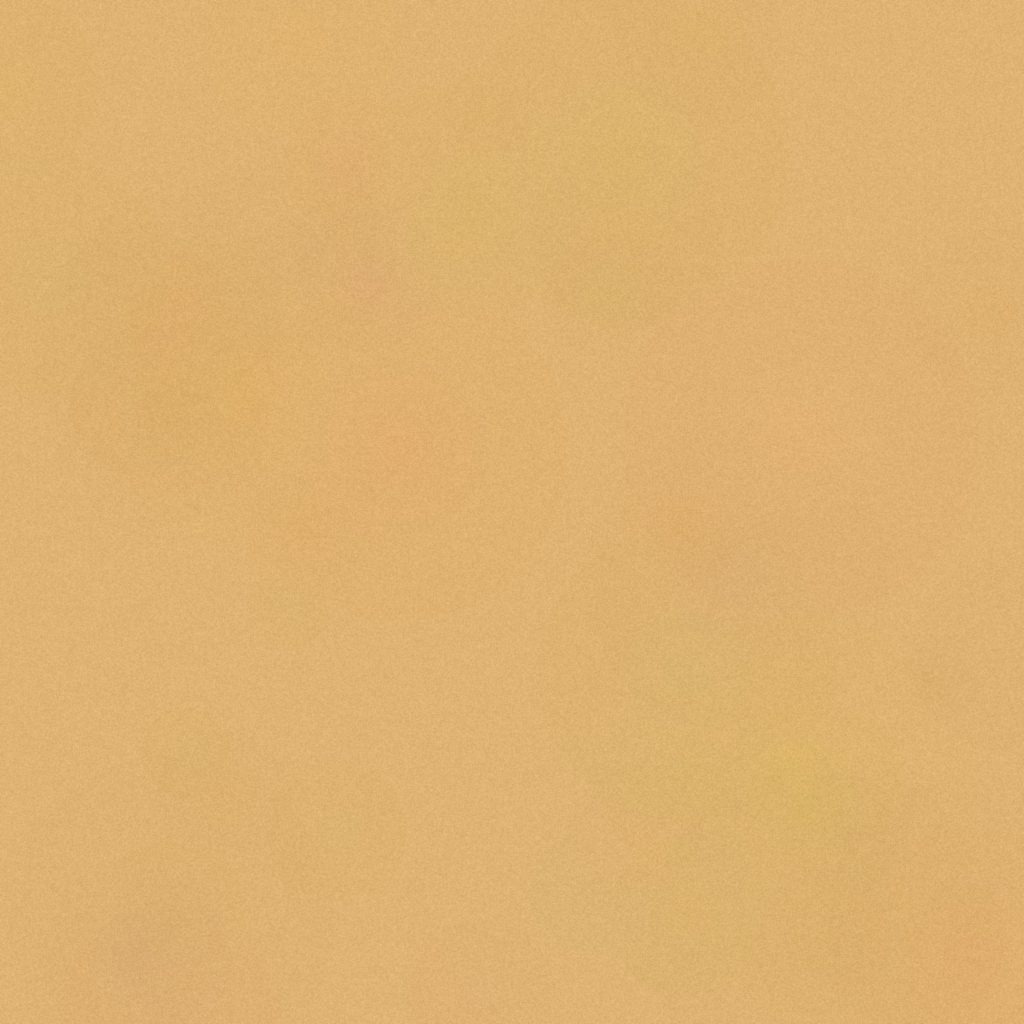
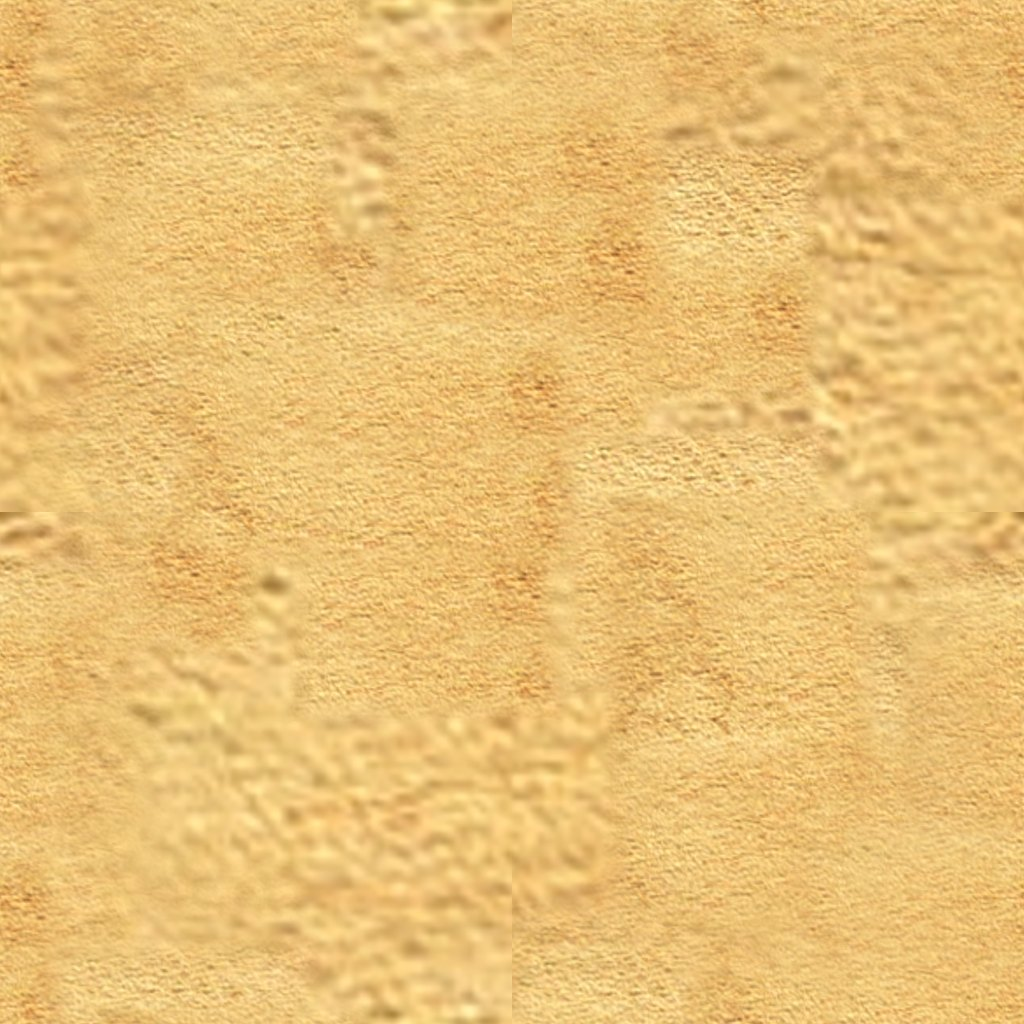
Restyle the app on the original parchment.
The page uses the OP20 sheet's fiber and a darker edge, with sharper ink and tighter cards. The app icon is unchanged.

Changed region(s): [[0.0, 0.0, 1.0, 1.0], [0.9062, 0.0625, 0.9375, 0.125]]

diff --git a/src/styles.css b/src/styles.css
@@ -6,41 +6,41 @@
   --font-sans: "Source Serif 4", "Iowan Old Style", "Palatino Linotype", serif;
   --font-mono: "IBM Plex Mono", ui-monospace, monospace;
 
-  --color-parchment: #f3e4c4;
-  --color-parchment-2: #e6cf9e;
-  --color-rule: #c9a56a;
-  --color-ink: #2a1c14;
-  --color-ink-soft: #4a3524;
-  --color-muted: #7a6248;
+  --color-parchment: #f4e2c0;
+  --color-parchment-2: #e4c48a;
+  --color-rule: #a9783d;
+  --color-ink: #1a120c;
+  --color-ink-soft: #3c2b1c;
+  --color-muted: #6b5338;
   --color-burgundy: #7c2d22;
   --color-burgundy-deep: #5c1f18;
-  --color-leather: #2b2218;
-  --color-leather-2: #1a140e;
-  --color-cream: #f7ecd4;
-  --color-panel: #f4e6cc;
+  --color-leather: #241910;
+  --color-leather-2: #140e0a;
+  --color-cream: #f8edd4;
+  --color-panel: #f6e7c8;
   --color-danger: #9b2c2c;
   --color-ok: #2f6b4f;
   --color-warn: #8a5a18;
 
-  --color-background: #f3e4c4;
-  --color-foreground: #2a1c14;
-  --color-card: #f4e6cc;
-  --color-border: #c9a56a;
+  --color-background: #e6c07a;
+  --color-foreground: #1a120c;
+  --color-card: #f6e7c8;
+  --color-border: #a9783d;
   --color-primary: #7c2d22;
-  --color-primary-foreground: #f3e4c4;
+  --color-primary-foreground: #f8edd4;
   --color-ring: #7c2d22;
   --color-destructive: #9b2c2c;
 
   --radius-xs: 4px;
-  --radius-sm: 8px;
-  --radius-md: 12px;
-  --radius-lg: 20px;
-  --radius-xl: 28px;
+  --radius-sm: 6px;
+  --radius-md: 10px;
+  --radius-lg: 14px;
+  --radius-xl: 18px;
 
   --shadow-border:
-    0px 0px 0px 1px rgba(42, 28, 20, 0.08),
-    0px 1px 2px -1px rgba(42, 28, 20, 0.08),
-    0px 8px 24px -12px rgba(42, 28, 20, 0.18);
+    0 0 0 1px rgba(26, 18, 12, 0.16),
+    inset 0 1px 0 rgba(255, 248, 230, 0.75),
+    0 14px 28px -18px rgba(70, 36, 10, 0.55);
 
   --ease-out: cubic-bezier(0.22, 1, 0.36, 1);
 }
@@ -52,18 +52,14 @@
   }
 
   body {
-    background-color: var(--color-parchment);
+    background-color: #c9964c;
     background-image:
-      linear-gradient(
-        180deg,
-        color-mix(in srgb, var(--color-parchment) 58%, transparent),
-        color-mix(in srgb, var(--color-parchment) 86%, transparent) 48%,
-        var(--color-parchment)
-      ),
+      radial-gradient(ellipse 100% 60% at 50% 0%, rgba(255, 244, 214, 0.35), transparent 46%),
+      radial-gradient(ellipse 140% 110% at 50% 42%, transparent 42%, rgba(78, 40, 12, 0.38) 100%),
       url("/brand/parchment-wash.jpg");
-    background-size: auto, 1400px;
-    background-repeat: no-repeat, repeat;
-    background-position: 0 0, 50% 0;
+    background-size: auto, auto, 640px;
+    background-repeat: no-repeat, no-repeat, repeat;
+    background-position: center top, center, center;
     color: var(--color-ink);
     font-family: var(--font-sans);
     min-height: 100dvh;
@@ -72,7 +68,7 @@
   h1, h2, h3 {
     font-family: var(--font-display);
     text-wrap: balance;
-    letter-spacing: -0.02em;
+    letter-spacing: -0.015em;
   }
 
   p {
@@ -106,15 +102,17 @@
 
 .ornament-frame {
   box-shadow: var(--shadow-border);
-  background: var(--color-panel);
+  background:
+    linear-gradient(180deg, rgba(255, 250, 240, 0.72), rgba(255, 246, 228, 0.15) 22%, transparent 48%),
+    var(--color-panel);
 }
 
 .stat-shield {
-  border-radius: 1.6rem 1.6rem 2.1rem 2.1rem;
+  border-radius: 0.85rem 0.85rem 1.15rem 1.15rem;
   background:
-    radial-gradient(120% 70% at 50% 0%, rgba(124, 45, 34, 0.1), transparent 58%),
-    var(--color-cream, #f3e4c4);
-  box-shadow: inset 0 0 0 1px rgba(42, 28, 20, 0.1);
+    radial-gradient(120% 70% at 50% 0%, rgba(124, 45, 34, 0.08), transparent 58%),
+    var(--color-cream);
+  box-shadow: inset 0 0 0 1px rgba(26, 18, 12, 0.14);
 }
 
 .resource-fill {
@@ -131,6 +129,6 @@
   .ornament-frame {
     break-inside: avoid;
     box-shadow: none;
-    border: 1px solid #c9a56a;
+    border: 1px solid #a9783d;
   }
 }

diff --git a/src/components/panel.tsx b/src/components/panel.tsx
@@ -20,7 +20,7 @@ export function Panel({
     <section
       id={id}
       className={cn(
-        "ornament-frame rounded-[28px] p-5 sm:p-6",
+        "ornament-frame rounded-2xl p-5 sm:p-6",
         className,
       )}
     >
@@ -67,11 +67,11 @@ export function StatChip({
           : undefined
       }
       className={cn(
-        "min-w-0 bg-cream shadow-[inset_0_0_0_1px_rgba(42,28,20,0.08)]",
+        "min-w-0 bg-cream shadow-[inset_0_0_0_1px_rgba(26,18,12,0.14)]",
         compact
-          ? "flex h-full flex-col items-center justify-center rounded-2xl px-1 py-2 text-center"
-          : "rounded-2xl px-3 py-2.5",
-        clickable && "cursor-pointer hover:shadow-[inset_0_0_0_2px_rgba(124,45,34,0.45)]",
+          ? "flex h-full flex-col items-center justify-center rounded-xl px-1 py-2 text-center"
+          : "rounded-xl px-3 py-2.5",
+        clickable && "cursor-pointer hover:shadow-[inset_0_0_0_2px_rgba(124,45,34,0.5)]",
       )}
     >
       <div

diff --git a/src/components/ui/dialog.tsx b/src/components/ui/dialog.tsx
@@ -18,7 +18,7 @@ export function DialogContent({
       <DialogPrimitive.Overlay className="fixed inset-0 z-50 bg-leather-2/50 data-[state=open]:animate-in" />
       <DialogPrimitive.Content
         className={cn(
-          "fixed top-1/2 left-1/2 z-50 w-[min(92vw,440px)] -translate-x-1/2 -translate-y-1/2 rounded-[28px] bg-parchment p-6 shadow-[0_24px_60px_-20px_rgba(42,28,20,0.45)]",
+          "fixed top-1/2 left-1/2 z-50 w-[min(92vw,440px)] -translate-x-1/2 -translate-y-1/2 rounded-2xl bg-panel p-6 shadow-[0_24px_60px_-24px_rgba(26,18,12,0.55)]",
           "duration-250 ease-[cubic-bezier(0.22,1,0.36,1)] data-[state=open]:scale-100 data-[state=closed]:scale-[0.96]",
           className,
         )}
